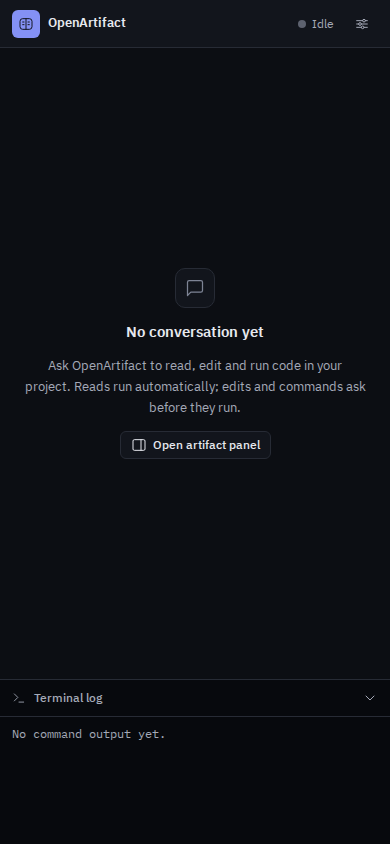
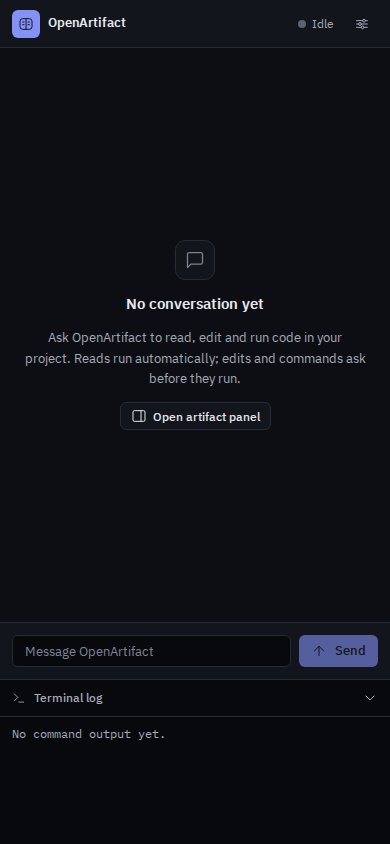
feat(6-chat-ui-approvals-terminal-log): chat messages, composer, store-wired status bar

Changed region(s): [[0.0615, 0.2773, 0.9538, 0.5545], [0.7692, 0.7393, 0.9846, 0.8009], [0.0615, 0.7393, 0.4, 0.8009]]

diff --git a/apps/web/src/components/chat/Composer.tsx b/apps/web/src/components/chat/Composer.tsx
@@ -1,0 +1,93 @@
+import { useLayoutEffect, useRef, useState } from "react";
+import type { FormEvent, KeyboardEvent } from "react";
+
+import { useChatStore } from "../../store/chatStore";
+import { Button, cn, focusRing, SendIcon, StopIcon } from "../ui";
+
+/** The tallest the composer grows before its textarea scrolls (px). */
+const MAX_COMPOSER_HEIGHT = 160;
+
+/**
+ * The message composer (§12.6, "Composer"): a growing text input with Send /
+ * Stop. While a turn is in flight the Send action becomes Stop. Keyboard
+ * first: Enter sends, Shift+Enter inserts a newline, and the textarea keeps a
+ * visible focus ring.
+ */
+export function Composer() {
+  const isSending = useChatStore((state) => state.isSending);
+  const send = useChatStore((state) => state.send);
+  const stop = useChatStore((state) => state.stop);
+
+  const [value, setValue] = useState("");
+  const textareaRef = useRef<HTMLTextAreaElement>(null);
+
+  const canSend = value.trim() !== "" && !isSending;
+
+  // Grow (and shrink back) with the content, capped so long drafts scroll
+  // instead of pushing the conversation out of view.
+  useLayoutEffect(() => {
+    const textarea = textareaRef.current;
+    if (!textarea) return;
+    textarea.style.height = "auto";
+    textarea.style.height = `${Math.min(textarea.scrollHeight, MAX_COMPOSER_HEIGHT)}px`;
+  }, [value]);
+
+  function submit() {
+    if (!canSend) return;
+    void send(value);
+    setValue("");
+  }
+
+  function onKeyDown(event: KeyboardEvent<HTMLTextAreaElement>) {
+    // Enter sends; Shift+Enter (and IME composition) insert a newline.
+    if (event.key === "Enter" && !event.shiftKey && !event.nativeEvent.isComposing) {
+      event.preventDefault();
+      submit();
+    }
+  }
+
+  function onSubmit(event: FormEvent<HTMLFormElement>) {
+    event.preventDefault();
+    submit();
+  }
+
+  return (
+    <form
+      onSubmit={onSubmit}
+      className="flex shrink-0 items-end gap-2 border-t border-border bg-bg-elevated p-3"
+    >
+      <textarea
+        ref={textareaRef}
+        value={value}
+        onChange={(event) => setValue(event.target.value)}
+        onKeyDown={onKeyDown}
+        rows={1}
+        aria-label="Message OpenArtifact"
+        placeholder={isSending ? "OpenArtifact is working…" : "Message OpenArtifact"}
+        className={cn(
+          "min-h-8 max-h-40 flex-1 resize-none rounded-md border border-border bg-bg-sunken px-3 py-1.5 text-sm leading-normal text-text placeholder:text-text-muted",
+          focusRing,
+        )}
+      />
+      {isSending ? (
+        <Button
+          type="button"
+          variant="danger"
+          icon={<StopIcon className="h-4 w-4" />}
+          onClick={stop}
+        >
+          Stop
+        </Button>
+      ) : (
+        <Button
+          type="submit"
+          variant="primary"
+          icon={<SendIcon className="h-4 w-4" />}
+          disabled={!canSend}
+        >
+          Send
+        </Button>
+      )}
+    </form>
+  );
+}

diff --git a/apps/web/src/components/shell/ChatPane.tsx b/apps/web/src/components/shell/ChatPane.tsx
@@ -1,3 +1,6 @@
+import { useChatStore } from "../../store/chatStore";
+import { ChatContainer } from "../chat/ChatContainer";
+import { Composer } from "../chat/Composer";
 import { Button, MessageSquareIcon, PanelRightIcon } from "../ui";
 import { TerminalLog } from "./TerminalLog";
 
@@ -10,32 +13,40 @@ export interface ChatPaneProps {
 }
 
 /**
- * The chat pane — conversation region (empty state for now) plus the
- * collapsible terminal log at its foot.
+ * The chat pane — the conversation (empty state before the first message, the
+ * streaming message list after), the composer, and the collapsible terminal log
+ * at its foot. Wired to the chat store so a conversation renders and streams.
  */
 export function ChatPane({ onOpenPanel }: ChatPaneProps) {
+  const hasMessages = useChatStore((state) => state.messages.length > 0);
+
   return (
     <div className="flex min-h-0 flex-1 flex-col">
-      <div className="flex min-h-0 flex-1 flex-col items-center justify-center gap-3 p-6 text-center">
-        <span className="flex h-10 w-10 items-center justify-center rounded-lg border border-border bg-bg-elevated text-text-muted">
-          <MessageSquareIcon className="h-5 w-5" />
-        </span>
-        <h2 className="text-md font-semibold text-text">No conversation yet</h2>
-        <p className="max-w-sm text-sm text-text-secondary">
-          Ask OpenArtifact to read, edit and run code in your project. Reads run
-          automatically; edits and commands ask before they run.
-        </p>
-        {onOpenPanel && (
-          <Button
-            variant="secondary"
-            size="sm"
-            icon={<PanelRightIcon className="h-4 w-4" />}
-            onClick={onOpenPanel}
-          >
-            Open artifact panel
-          </Button>
-        )}
-      </div>
+      {hasMessages ? (
+        <ChatContainer />
+      ) : (
+        <div className="flex min-h-0 flex-1 flex-col items-center justify-center gap-3 p-6 text-center">
+          <span className="flex h-10 w-10 items-center justify-center rounded-lg border border-border bg-bg-elevated text-text-muted">
+            <MessageSquareIcon className="h-5 w-5" />
+          </span>
+          <h2 className="text-md font-semibold text-text">No conversation yet</h2>
+          <p className="max-w-sm text-sm text-text-secondary">
+            Ask OpenArtifact to read, edit and run code in your project. Reads
+            run automatically; edits and commands ask before they run.
+          </p>
+          {onOpenPanel && (
+            <Button
+              variant="secondary"
+              size="sm"
+              icon={<PanelRightIcon className="h-4 w-4" />}
+              onClick={onOpenPanel}
+            >
+              Open artifact panel
+            </Button>
+          )}
+        </div>
+      )}
+      <Composer />
       <TerminalLog />
     </div>
   );

diff --git a/apps/web/src/components/chat/ChatContainer.tsx b/apps/web/src/components/chat/ChatContainer.tsx
@@ -1,0 +1,60 @@
+import { useLayoutEffect, useRef, useState } from "react";
+import type { UIEvent } from "react";
+
+import { useChatStore } from "../../store/chatStore";
+import { MessageItem } from "./MessageItem";
+
+/** Distance from the bottom (px) below which the list counts as pinned. */
+const BOTTOM_THRESHOLD = 40;
+
+/**
+ * The scrollable conversation list (§12.6, "Message list"). Renders every
+ * message and auto-scrolls to the newest content as it streams — pausing while
+ * the user has scrolled up, and resuming when they return to the bottom. A new
+ * user turn re-pins the view.
+ */
+export function ChatContainer() {
+  const messages = useChatStore((state) => state.messages);
+  const listRef = useRef<HTMLDivElement>(null);
+  const [pinned, setPinned] = useState(true);
+
+  function onScroll(event: UIEvent<HTMLDivElement>) {
+    const element = event.currentTarget;
+    const atBottom =
+      element.scrollHeight - element.scrollTop - element.clientHeight <
+      BOTTOM_THRESHOLD;
+    if (atBottom !== pinned) setPinned(atBottom);
+  }
+
+  // Scroll synchronously before paint so streamed text never causes a visible
+  // jump. Depends on `messages` (identity changes on every delta) so growing
+  // content keeps the bottom in view while pinned.
+  useLayoutEffect(() => {
+    const element = listRef.current;
+    if (!element) return;
+
+    const last = messages[messages.length - 1];
+    if (last?.role === "user") {
+      setPinned(true);
+      element.scrollTop = element.scrollHeight;
+      return;
+    }
+
+    if (pinned) {
+      element.scrollTop = element.scrollHeight;
+    }
+  }, [messages, pinned]);
+
+  return (
+    <div
+      ref={listRef}
+      onScroll={onScroll}
+      aria-label="Conversation"
+      className="flex min-h-0 flex-1 flex-col gap-5 overflow-y-auto px-4 py-4"
+    >
+      {messages.map((message) => (
+        <MessageItem key={message.id} message={message} />
+      ))}
+    </div>
+  );
+}

diff --git a/apps/web/src/components/shell/StatusBar.tsx b/apps/web/src/components/shell/StatusBar.tsx
@@ -1,20 +1,14 @@
+import type { AgentState } from "@openartifact/shared";
+
+import { useChatStore } from "../../store/chatStore";
 import { IconButton, SettingsIcon, StatusDot } from "../ui";
 import type { StatusTone } from "../ui";
 import { ProductMark } from "./ProductMark";
 
 /**
- * Agent state shown at a glance in the status bar. Feature 6 wires the real
- * state machine; the empty shell sits in `idle`.
+ * Agent state shown at a glance in the status bar, wired to the chat store so
+ * the loop's state machine (§8) is always visible.
  */
-export type AgentState =
-  | "idle"
-  | "streaming"
-  | "awaiting_approval"
-  | "executing_tool"
-  | "done"
-  | "error"
-  | "cancelled";
-
 const stateLabel: Record<AgentState, string> = {
   idle: "Idle",
   streaming: "Working",
@@ -46,23 +40,24 @@ const statePulse: Record<AgentState, boolean> = {
 };
 
 export interface StatusBarProps {
-  state?: AgentState;
   /** Settings drawer trigger (feature 8); rendered as a visible seam for now. */
   onOpenSettings?: () => void;
 }
 
-export function StatusBar({ state = "idle", onOpenSettings }: StatusBarProps) {
+export function StatusBar({ onOpenSettings }: StatusBarProps) {
+  const agentState = useChatStore((state) => state.agentState);
+
   return (
     <header className="flex h-12 shrink-0 items-center gap-3 border-b border-border bg-bg-elevated px-3">
       <ProductMark />
       <div className="ml-auto flex items-center gap-1">
         <span className="mr-2 inline-flex items-center gap-1.5 text-xs text-text-secondary">
           <StatusDot
-            tone={stateTone[state]}
-            pulse={statePulse[state]}
-            label={stateLabel[state]}
+            tone={stateTone[agentState]}
+            pulse={statePulse[agentState]}
+            label={stateLabel[agentState]}
           />
-          {stateLabel[state]}
+          {stateLabel[agentState]}
         </span>
         <IconButton
           aria-label="Settings"

diff --git a/apps/web/src/components/chat/MessageItem.tsx b/apps/web/src/components/chat/MessageItem.tsx
@@ -1,0 +1,31 @@
+import { cn } from "../ui";
+import type { ChatMessage } from "../../store/chatStore";
+
+/**
+ * One conversation message (§12.6, "Message list"): a user turn (right-aligned
+ * elevated bubble) or an assistant turn (left-aligned, plain text that grows in
+ * place as deltas stream). Tool-call and approval cards attach in feature 6.1.
+ */
+export function MessageItem({ message }: { message: ChatMessage }) {
+  const isUser = message.role === "user";
+
+  return (
+    <article className={cn("flex flex-col", isUser ? "items-end" : "items-start")}>
+      <span className="mb-1 text-xs font-medium text-text-muted">
+        {isUser ? "You" : "OpenArtifact"}
+      </span>
+      <div
+        className={cn(
+          "max-w-[85%] whitespace-pre-wrap break-words text-sm leading-normal",
+          isUser
+            ? "rounded-lg border border-border bg-bg-elevated px-3 py-2 text-text"
+            : "text-text",
+        )}
+      >
+        {message.content !== ""
+          ? message.content
+          : !isUser && <span className="text-text-muted">Working…</span>}
+      </div>
+    </article>
+  );
+}

diff --git a/apps/web/src/components/ui/icons.tsx b/apps/web/src/components/ui/icons.tsx
@@ -71,6 +71,15 @@ export function StopIcon(props: SVGProps<SVGSVGElement>) {
   );
 }
 
+export function SendIcon(props: SVGProps<SVGSVGElement>) {
+  return (
+    <IconBase {...props}>
+      <path d="M12 19V5" />
+      <path d="m5 12 7-7 7 7" />
+    </IconBase>
+  );
+}
+
 export function SettingsIcon(props: SVGProps<SVGSVGElement>) {
   return (
     <IconBase {...props}>

diff --git a/apps/web/src/components/ui/index.ts b/apps/web/src/components/ui/index.ts
@@ -35,6 +35,7 @@ export {
   PanelRightIcon,
   PlayIcon,
   PlusIcon,
+  SendIcon,
   SettingsIcon,
   StopIcon,
   TerminalIcon,

diff --git a/docs/DECISIONS.md b/docs/DECISIONS.md
@@ -75,3 +75,7 @@ Format: **Decision**: reason. *Alternatives considered.*
 - **Feature 6: the approval seam buffers a decision that arrives before the loop registers the pending approval** (`conversation.pendingDecision`): the loop yields `approval_request` *before* it calls the `ApprovalHandler`, so a very fast client can post a decision in the gap between the SSE write and the handler registering the pending promise; the handler consumes any buffered decision first, making the round-trip race-free. *Rejecting 409 "no pending approval" (races the client); pre-registering the pending promise outside the loop (would require reordering core's yield/handler sequence).*
 - **Feature 6: chat SSE events are serialized as `event: <type>` + a single-line JSON `data:` body, with the event object kept in `data`** (the `event:` name mirrors it for the fetch-based parser); the wire type lives server-side in `routes/chat.ts` for now and is promoted to `packages/shared/src/chat.ts` in task 4.1, where it becomes the server↔web contract. Command output forwards as a dedicated `command_output {stream,text}` event. *SSE with empty `event:` and a `type` only inside `data` (the client must parse JSON to route); a bespoke non-JSON line protocol (more parser surface for no gain).*
 - **Feature 6: a per-conversation provider factory (fake → fresh `FakeServerProvider`, real → fresh `createProviderAdapter`) instead of one shared adapter**: `FakeServerProvider` is stateful (replays turns in order), so each conversation must start its replay from turn one; real adapters are stateless but the factory keeps the wiring uniform. The factory is injectable on `createApp` (`providerFactory`) so tests can replay a single fixture turn (e.g. the slow Stop turn) in isolation. *One shared provider instance (the fake would replay turns across conversations); constructing a full `AgentRuntime` up front and cloning it (the loop owns history and cannot be cloned).*
+
+- **Feature 6, task 5.1: the chat pane stacks vertically as messages → composer → collapsible terminal log, with the terminal log as the pane's foot**: the composer belongs directly under the conversation it is answering, and the step-5 shell already pins the terminal log to the foot (`shrink-0 border-t`), so inserting the composer between the two keeps the typing surface adjacent to the messages while the streamed command output stays at the bottom. *Composer below the terminal log (separates the composer from the conversation and puts a collapsible region under the input).*
+- **Feature 6, task 5.1: message text renders as plain pre-wrapped text (no markdown) for now, and auto-scroll pins to the bottom with a 40 px threshold, re-pinning when a new user turn is appended**: markdown/artifact/mermaid parsing of assistant text is feature 7 (inline Mermaid and artifacts are its scope), so feature 6 keeps the streamed-message rendering a faithful plain-text `whitespace-pre-wrap`; the 40 px threshold absorbs sub-pixel rounding so the list does not fight the user, and appending a user message (a new send) re-pins the view even if the user had scrolled up mid-turn. *Rendering markdown now (pulls feature-7 scope forward); a zero threshold (scroll fights rounding); never re-pinning on send (a new turn can start out of view after the user scrolled up).*
+- **Feature 6, task 5.1: the composer's Send icon is an authored up-arrow (`SendIcon`), the textarea grows to a 160 px cap, Enter sends and Shift+Enter inserts a newline (IME composition never sends)**: the icon stays in the authored 1.5-stroke SVG set (no new dependency), the cap keeps long drafts scrolling inside the textarea instead of pushing the conversation out of view, and guarding `event.nativeEvent.isComposing` prevents Enter from sending while a CJK IME is confirming a composition. *A paper-plane glyph (same set, but an arrow reads more literally as "send/enter" in a code tool); an unbounded autogrow (the composer can consume the whole pane); sending on Enter during IME composition (breaks CJK input).*

diff --git a/openspec/changes/6-chat-ui-approvals-terminal-log/tasks.md b/openspec/changes/6-chat-ui-approvals-terminal-log/tasks.md
@@ -21,7 +21,7 @@
 
 ## 5. Chat UI: messages, composer, status
 
-- [ ] 5.1 Build `ChatContainer`, `MessageItem` and `Composer` (send/stop, keyboard-operable) and wire `StatusBar` + `ChatPane` to the store so a conversation renders streamed messages and the state is always visible; auto-scroll pauses on manual scroll. Verify `pnpm design:check` passes and `pnpm build` (web) typechecks.
+- [x] 5.1 Build `ChatContainer`, `MessageItem` and `Composer` (send/stop, keyboard-operable) and wire `StatusBar` + `ChatPane` to the store so a conversation renders streamed messages and the state is always visible; auto-scroll pauses on manual scroll. Verify `pnpm design:check` passes and `pnpm build` (web) typechecks.
 
 ## 6. Tool-call cards, approval cards, terminal log
 
